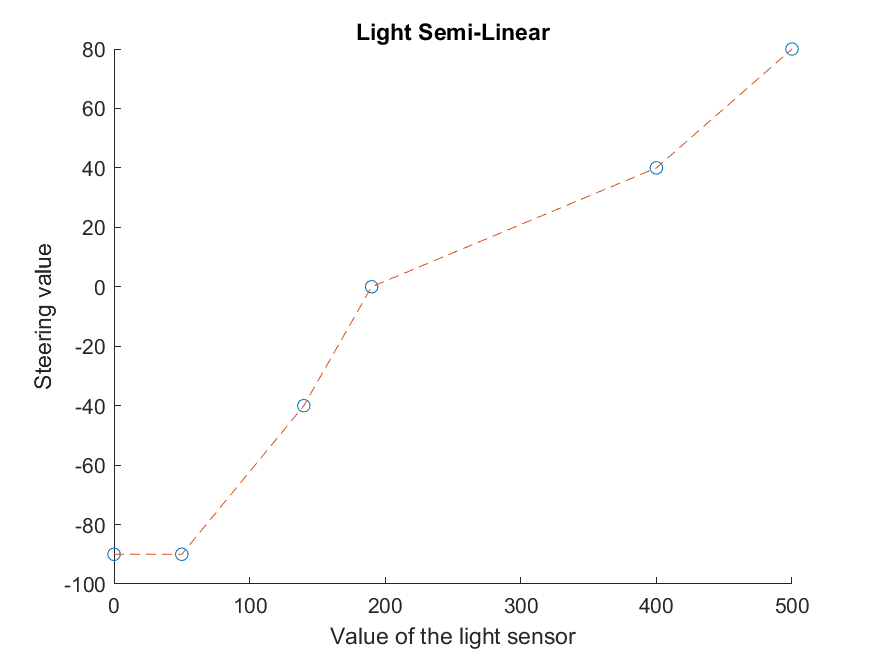
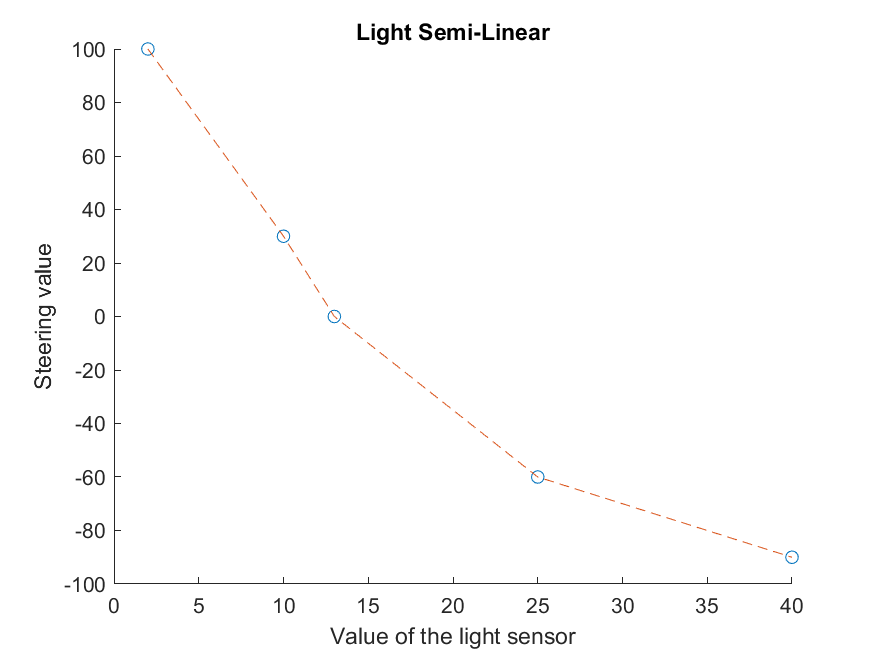
Correcting Mistakes
- Data plotted was wrong assigned

another copy + paste error :D

diff --git a/semiFinal.py b/semiFinal.py
@@ -34,7 +34,7 @@ normalDistance = 190
 
 maxRot = 90
 maxLight = 70
-maxDistance = 500
+maxDistance = 200
 
 storageLight = []
 storageDistance = []
@@ -93,12 +93,12 @@ def lightToSteering(light):
     #vk < v(k+1)
     # v - value,  s - steering
 
-    val =   [2  ,  10,  13,  25,  40]
+    val =   [0  ,  10,  13,  25,  40]
     steer = [100,  30,   0, -60, -90]
 
-    for i in range(1,len(val)): #Checks if distance is in between some interval of val (can't be <2)
-        if distance < val[i]:
-            return linear(distance, val[i-1], steer[i-1], val[i], steer[i])
+    for i in range(1,len(val)): #Checks if distance is in between some interval of val (can't be <0)
+        if light < val[i]:
+            return linear(light, val[i-1], steer[i-1], val[i], steer[i])
     
     return steer[-1] #This is the last element 
     '''
@@ -193,6 +193,13 @@ def distanceToSteering(distance):
     '''
 
 
+#TODO
+def changeToSteeringLight():
+    pass
+
+def changeToSteeringDist():
+    pass
+
 
 #Checking for what the current sensor in the map is
 #mode: light, tunnel,    # transLtoD, transDtoL
@@ -200,19 +207,20 @@ def getMode(oldMode):
     #Cyclic method
     light = storageLight[0]
     distance = storageDistance[0]
+    print(light,distance)
     if oldMode == 'light':
         if distance < maxDistance:
-            print('ld')
-            return 'transLtoD'
-    elif oldMode == 'transLtoD':
+            print('lt')
+            return 'transLtoT'
+    elif oldMode == 'transLtoT':
         if light > maxLight:
             print('t')
             return 'tunnel'
     elif oldMode == 'tunnel':
         if light < maxLight:
-            return 'transDtoL'
-            print('dl')
-    elif oldMode == 'transDtoL':
+            return 'transTtoL'
+            print('tl')
+    elif oldMode == 'transTtoL':
         if distance > maxDistance:
             return 'light'
             print('l')
@@ -240,22 +248,19 @@ def getMode(oldMode):
 
 #@returns returns a value in the domain [-70 70] which should be the angle for the wheels (and the raw sensor data)
 def getSteeringValue(mode):
+    light = storageLight[0]
+    distance = storageDistance[0]
     
     if mode == 'light':
         steering = lightToSteering(light)
-
         change =  mean(storageLight) - light
-        storageLight = shift(storageLight, light)
         
     elif mode == 'tunnel':
         steering = distanceToSteering(distance)
-        
         change = mean(storageDistance) - distance
-        storageDistance = shift(storageDistance, distance)
         
     #TODO
-    elif mode == 'transition' or mode == 'transLtoD' or mode == 'transDtoL':
-        
+    elif mode == 'transition' or mode == 'transLtoT' or mode == 'transTtoL':
         steering = 1/2 * (lightToSteering(light) + distanceToSteering(distance))
         change = 0
 
@@ -278,7 +283,7 @@ def getSteeringValue(mode):
     print('Change: ', change)
     print('Steer: ', steering)
     '''
-
+    print(light,'uu',steering)
     return steering, mode
     
  #Meassures light and distance
@@ -309,18 +314,17 @@ for i in range(5):
 
 
 while True:
-    wait(400)
     
     observe()
     mode = getMode(mode)
 
-    '''
-    steeringVal, mode = getSteeringValue(storageLight, mode, distanceFilter, storageDistance)
+    
+    steeringVal, mode = getSteeringValue(mode)
 
     driveDifferential(motorLeft, motorRight, 200, steeringVal)
 
     steerMotor.run_target(600, steeringVal)
-    '''
+    
     #try steerMotor.run_angle -angleError and change getSteeringValue
     #rot = steerMotor.angle()
     #wait(100)
